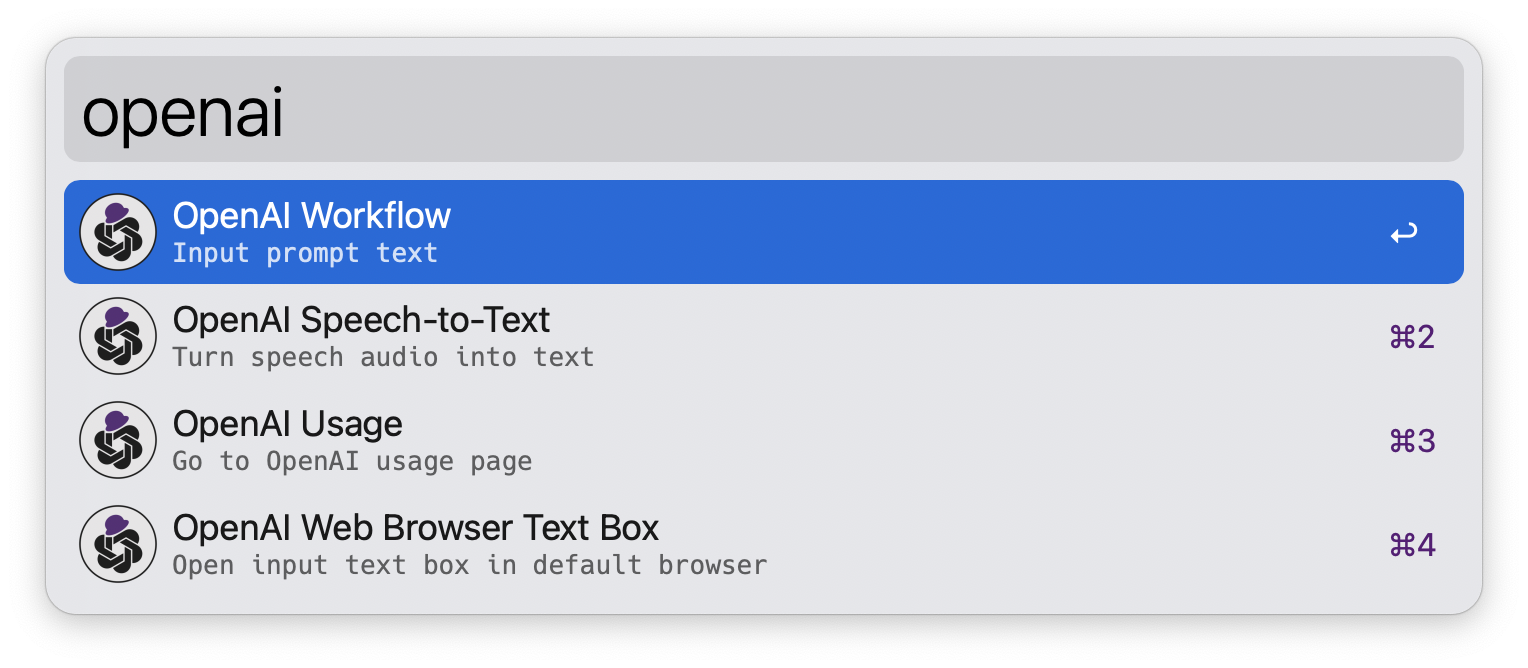
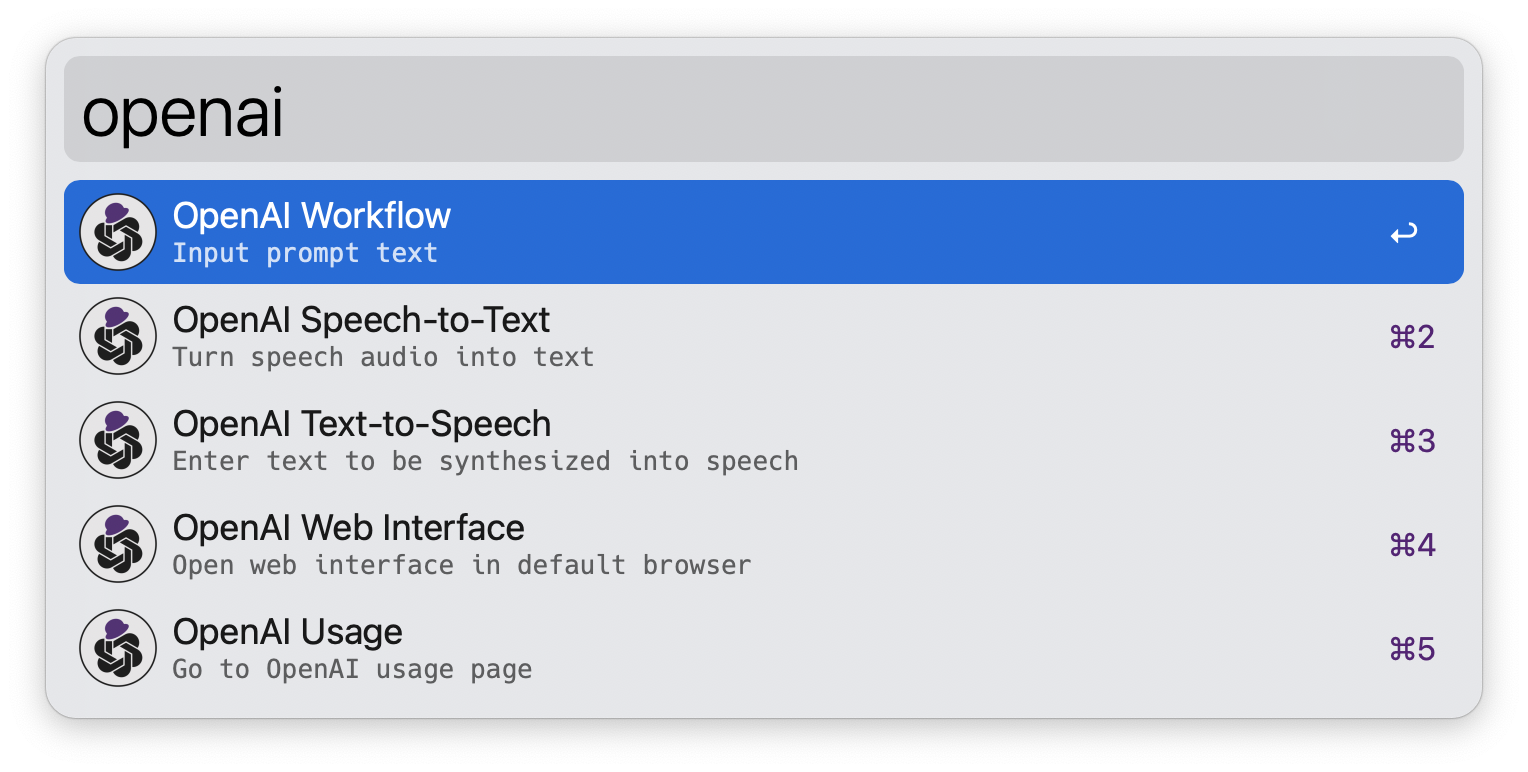
added new command openai-tts

diff --git a/README.md b/README.md
@@ -22,7 +22,7 @@
 
 **Recent Change Log**
 
-- **2.6.0: OpenAI's 2023-1106 models supported 🎉**
+- **2.6.1: OpenAI's 2023-1106 models supported 🎉**
     - **Chat/Completion**
         - gpt-4-1106-preview
         - gpt-3.5-turbo-1106
@@ -95,7 +95,7 @@ You can select any text on your Mac and send it to the workflow:
 
 You can open a web interface
 
-- Method 1: Alfred textbox → keyword (`openai-textbox`)
+- Method 1: Alfred textbox → keyword (`openai-webui`)
 - Method 2: set up a custom hotkey to `Open web interface`
 
 **Using Google Chrome**

diff --git a/CHANGELOG.md b/CHANGELOG.md
@@ -1,6 +1,6 @@
 # Change Log
 
-- **2.6.0: OpenAI's 2023-1106 models supported**
+- **2.6.1: OpenAI's 2023-1106 models supported**
     - chat/completion
         - gpt-4-1106-preview
         - gpt-3.5-turbo-1106
